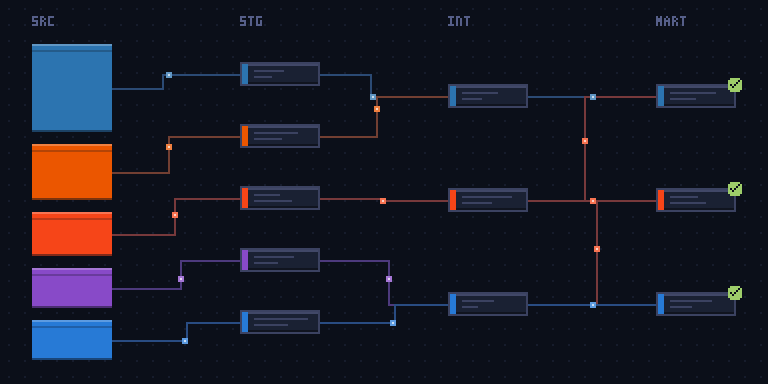
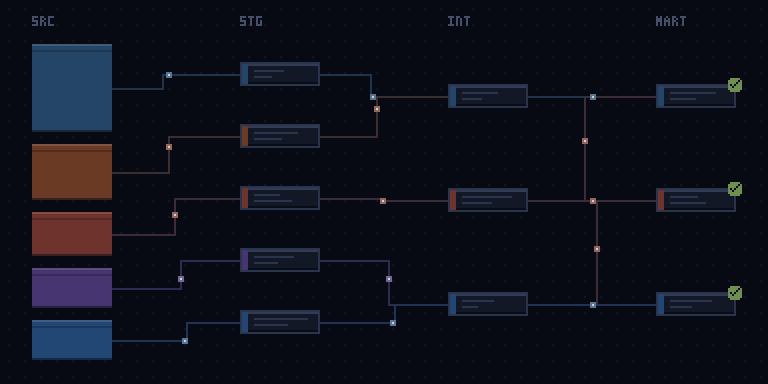
render: darken the graph to the night scene
The bright language blocks sat apart from the profile's pixel art. Sources
keep their hue and drop toward the room's wall color.

diff --git a/src/palette.rs b/src/palette.rs
@@ -1,5 +1,5 @@
-//! The colors the lineage graph is drawn in: a Tokyo Night theme around GitHub's
-//! language colors.
+//! The colors the lineage graph is drawn in: a night-room blue around GitHub's
+//! language colors, pulled down so they sit in the dark instead of glowing.
 //!
 //! Every blend rounds its amount to a few fixed steps, so a frame keeps a small, exact
 //! set of colors that one GIF palette holds.
@@ -9,30 +9,30 @@ use crate::history::LanguageColor;
 /// One opaque color, as red, green, and blue channels.
 pub type Rgb = [u8; 3];
 
-/// The canvas behind everything.
-pub const BACKGROUND: Rgb = [0x0b, 0x0f, 0x19];
+/// The canvas behind everything, near the darkest blue of the night scene.
+pub const BACKGROUND: Rgb = [0x07, 0x0a, 0x12];
 /// The faint dot grid on the canvas.
-pub const GRID_DOT: Rgb = [0x16, 0x1c, 0x2c];
+pub const GRID_DOT: Rgb = [0x12, 0x17, 0x24];
 /// A pipe before it takes on its lineage's tint.
-pub const PIPE: Rgb = [0x2a, 0x31, 0x50];
+pub const PIPE: Rgb = [0x1e, 0x27, 0x3c];
 /// The body of a model node.
-pub const NODE_FILL: Rgb = [0x1a, 0x21, 0x33];
+pub const NODE_FILL: Rgb = [0x12, 0x18, 0x26];
 /// A model node's outline.
-pub const NODE_BORDER: Rgb = [0x3b, 0x42, 0x61];
+pub const NODE_BORDER: Rgb = [0x2a, 0x34, 0x4c];
 /// The lit top row of a node.
-pub const NODE_HIGHLIGHT: Rgb = [0x41, 0x48, 0x68];
+pub const NODE_HIGHLIGHT: Rgb = [0x32, 0x3c, 0x56];
 /// The shaded bottom row of a node.
-pub const NODE_SHADOW: Rgb = [0x10, 0x14, 0x1f];
-/// The profile's accent, used for flashing marts.
-pub const ACCENT: Rgb = [0x88, 0xc0, 0xd0];
-/// Passing tests.
-pub const TEST_PASS: Rgb = [0x9e, 0xce, 0x6a];
+pub const NODE_SHADOW: Rgb = [0x08, 0x0c, 0x14];
+/// The monitor cyan, used for flashing marts.
+pub const ACCENT: Rgb = [0x6a, 0x96, 0xa6];
+/// Passing tests, at the brightness of the room's plants.
+pub const TEST_PASS: Rgb = [0x6e, 0x8f, 0x4e];
 /// Layer labels.
-pub const LABEL: Rgb = [0x56, 0x5f, 0x89];
+pub const LABEL: Rgb = [0x45, 0x50, 0x68];
 /// The paused cursor.
-pub const CURSOR: Rgb = [0xc0, 0xca, 0xf5];
+pub const CURSOR: Rgb = [0xa8, 0xb4, 0xd0];
 /// A language GitHub gives no color, and the source of an account with no language.
-pub const UNCOLORED_LANGUAGE: Rgb = [0x8b, 0x94, 0x9e];
+pub const UNCOLORED_LANGUAGE: Rgb = [0x6a, 0x73, 0x84];
 
 const WHITE: Rgb = [0xff; 3];
 /// Blend amounts round to this many steps between the two colors.
@@ -46,9 +46,20 @@ const VIVID_SATURATION_GAIN: f64 = 0.35;
 /// A dimmed color turns grey at this share of its brightness.
 const DIM_BRIGHTNESS: f64 = 0.55;
 
+/// The night room's wall. Language colors lean toward it, which drops both brightness
+/// and saturation without giving every source the same hue.
+const NIGHT_WALL: Rgb = [0x24, 0x30, 0x44];
+const NIGHT_DARKEN: f64 = 0.25;
+const NIGHT_WALL_MIX: f64 = 0.5;
+
 /// A language's color, or [`UNCOLORED_LANGUAGE`] for a language without one.
 pub fn language_rgb(language_color: Option<LanguageColor>) -> Rgb {
     language_color.map_or(UNCOLORED_LANGUAGE, |LanguageColor(channels)| channels)
+}
+
+/// Pull a color into the night scene so a source reads as a dim block, not a lamp.
+pub fn settle_into_night(color: Rgb) -> Rgb {
+    mix(darken(color, NIGHT_DARKEN), NIGHT_WALL, NIGHT_WALL_MIX)
 }
 
 /// Blend from one color toward another; the amount, from zero through one, rounds to

diff --git a/src/render.rs b/src/render.rs
@@ -1,5 +1,5 @@
 //! A pixel-art dbt lineage graph colored from the account's languages, on an opaque
-//! Tokyo Night canvas.
+//! night-blue canvas.
 //!
 //! Sources are drawn as database blocks in their language colors, models as dark cards
 //! with a stripe in the color of the source they read from, and pipes in a tint of the
@@ -19,6 +19,7 @@ use crate::layout::{DagLayout, Layer, layout_dag};
 use crate::palette::{
     ACCENT, BACKGROUND, CURSOR, GRID_DOT, LABEL, NODE_BORDER, NODE_FILL, NODE_HIGHLIGHT,
     NODE_SHADOW, PIPE, Rgb, TEST_PASS, apply_vibrancy, darken, dim, language_rgb, lighten, mix,
+    settle_into_night,
 };
 
 /// Width of the native canvas every graph is drawn on, at every growth level.
@@ -150,7 +151,12 @@ fn draw_graph(layout: &DagLayout, badges: &StreakBadges, flow: &FlowState) -> Fr
     let lineage_colors: Vec<Rgb> = layout
         .sources
         .iter()
-        .map(|source| apply_vibrancy(language_rgb(source.color), badges.color_vibrancy))
+        .map(|source| {
+            settle_into_night(apply_vibrancy(
+                language_rgb(source.color),
+                badges.color_vibrancy,
+            ))
+        })
         .collect();
 
     for edge in &layout.edges {
@@ -172,7 +178,7 @@ fn draw_graph(layout: &DagLayout, badges: &StreakBadges, flow: &FlowState) -> Fr
         if node.layer == Layer::Source {
             let body = lighten(lineage_color, flow.source_pulse * 0.5);
             canvas.fill_rect(node.rect, body);
-            canvas.fill_rect([x, y, width, 1], lighten(body, 0.25));
+            canvas.fill_rect([x, y, width, 1], lighten(body, 0.125));
             canvas.fill_rect([x, y + 3, width, 1], darken(body, 0.25));
             canvas.fill_rect([x, y + height - 1, width, 1], darken(body, 0.5));
             continue;

diff --git a/tests/render.rs b/tests/render.rs
@@ -5,7 +5,7 @@ use git_lineage::behavior::Behavior;
 use git_lineage::development::{PipelineDevelopment, RecentStreak, derive_pipeline_development};
 use git_lineage::flow::frame_count;
 use git_lineage::history::{AccountSnapshot, ContributionWeek, LanguageColor};
-use git_lineage::palette::{BACKGROUND, CURSOR, TEST_PASS};
+use git_lineage::palette::{BACKGROUND, CURSOR, TEST_PASS, settle_into_night};
 use git_lineage::render::{
     FRAME_HEIGHT_PIXELS, FRAME_WIDTH_PIXELS, Frame, render_flow_frame, render_still,
 };
@@ -51,18 +51,21 @@ fn rendering_is_reproducible_and_loops_wrap() {
 #[test]
 fn sources_wear_their_language_colors_until_the_graph_pauses() {
     let development = develop(20_000, 4, None);
-    assert!(has_color(&render_still(&development), PYTHON_BLUE));
+    let night_blue = settle_into_night(PYTHON_BLUE);
+    assert_ne!(night_blue, PYTHON_BLUE);
+    assert!(has_color(&render_still(&development), night_blue));
     assert!(has_color(
         &render_flow_frame(&development, Behavior::Batch, 0),
-        PYTHON_BLUE
+        night_blue
     ));
+    assert!(!has_color(&render_still(&development), PYTHON_BLUE));
     let paused_frames: Vec<Frame> = (0..frame_count(Behavior::Paused))
         .map(|frame_index| render_flow_frame(&development, Behavior::Paused, frame_index))
         .collect();
     assert!(
         paused_frames
             .iter()
-            .all(|frame| !has_color(frame, PYTHON_BLUE))
+            .all(|frame| !has_color(frame, PYTHON_BLUE) && !has_color(frame, night_blue))
     );
     assert!(paused_frames.iter().any(|frame| has_color(frame, CURSOR)));
     assert!(paused_frames.iter().any(|frame| !has_color(frame, CURSOR)));

diff --git a/tests/output.rs b/tests/output.rs
@@ -90,7 +90,7 @@ fn the_svg_draws_the_still_at_the_export_size() {
     assert!(svg_document.starts_with(&format!(
         "<svg xmlns=\"http://www.w3.org/2000/svg\" width=\"{STATIC_WIDTH_PIXELS}\" height=\"{STATIC_HEIGHT_PIXELS}\""
     )));
-    assert!(svg_document.contains("fill=\"#0b0f19\""));
+    assert!(svg_document.contains("fill=\"#070a12\""));
     assert!(svg_document.trim_end().ends_with("</svg>"));
 }
 

diff --git a/CHANGELOG.md b/CHANGELOG.md
@@ -6,6 +6,12 @@ follows [Semantic Versioning](https://semver.org/spec/v2.0.0.html).
 
 ## [Unreleased]
 
+### Changed
+
+- The lineage graph uses a darker night palette. Language sources keep their hue
+  and drop to the brightness of the room, and the canvas, pipes, and badges
+  follow.
+
 ## [2.0.0] - 2026-11-01
 
 ### Changed
